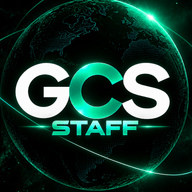
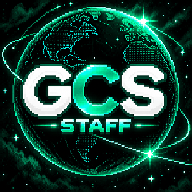
Ícone GCS Staff em pixel art (redimensionado sem suavizar) no app, iPhone e aba do navegador

diff --git a/app/layout.tsx b/app/layout.tsx
@@ -14,13 +14,14 @@ export const metadata: Metadata = {
   robots: { index: false, follow: false },
   // iPhone: instalado pela "Adicionar à Tela de Início" abre como app (sem barra do Safari)
   appleWebApp: { capable: true, title: "GCS Staff", statusBarStyle: "black-translucent" },
-  // ícone GCS Staff (imagem do Davi, 10/10/2026): aba do navegador (app/favicon.ico + 32px) e iPhone
+  // ícone GCS Staff em pixel art (imagem do Davi, 10/10/2026): aba do navegador (app/favicon.ico + 32px) e iPhone.
+  // "?v=3" força o navegador/iPhone a buscar o ícone novo (o nome do arquivo é o mesmo)
   icons: {
     icon: [
-      { url: "/favicon-32.png", sizes: "32x32", type: "image/png" },
-      { url: "/icone-192.png", sizes: "192x192", type: "image/png" },
+      { url: "/favicon-32.png?v=3", sizes: "32x32", type: "image/png" },
+      { url: "/icone-192.png?v=3", sizes: "192x192", type: "image/png" },
     ],
-    apple: "/apple-touch-icon.png",
+    apple: "/apple-touch-icon.png?v=3",
   },
 };
 

diff --git a/app/manifest.ts b/app/manifest.ts
@@ -15,11 +15,11 @@ export default function manifest(): MetadataRoute.Manifest {
     theme_color: "#000607",
     lang: "pt-BR",
     icons: [
-      { src: "/icone-192.png", sizes: "192x192", type: "image/png" },
-      { src: "/icone-512.png", sizes: "512x512", type: "image/png" },
+      { src: "/icone-192.png?v=3", sizes: "192x192", type: "image/png" },
+      { src: "/icone-512.png?v=3", sizes: "512x512", type: "image/png" },
       // Android corta em círculo: versão com o desenho menor e fundo preto
-      { src: "/icone-maskable-512.png", sizes: "512x512", type: "image/png", purpose: "maskable" },
-      { src: "/icone-1024.png", sizes: "1024x1024", type: "image/png" },
+      { src: "/icone-maskable-512.png?v=3", sizes: "512x512", type: "image/png", purpose: "maskable" },
+      { src: "/icone-1024.png?v=3", sizes: "1024x1024", type: "image/png" },
     ],
   };
 }

diff --git a/public/sw.js b/public/sw.js
@@ -15,7 +15,7 @@ self.addEventListener("push", (event) => {
   event.waitUntil(
     self.registration.showNotification(aviso.titulo || "Ospinabiz", {
       body: aviso.corpo || "",
-      icon: "/icone-192.png",
+      icon: "/icone-192.png?v=3",
       badge: "/selo-notificacao.png",
       tag: aviso.tag,
       // aviso da mesma coisa (ex.: a mesma pausa) substitui o anterior, mas toca de novo

diff --git a/docs/modulos/escala.md b/docs/modulos/escala.md
@@ -156,4 +156,8 @@ sem plantão. Com poucos leads (cerca de 55 desde 04/10), avisar quando a base f
   círculo do Android), `apple-touch-icon.png` (180), `favicon-32.png` e `app/favicon.ico` (16/32/48).
   Nome curto no celular: "GCS Staff". O selo da barra de notificação do Android
   (`selo-notificacao.png`) continua o anel branco: ele precisa ser uma silhueta de uma cor só.
+- **Ícone em pixel art (10/10/2026, mais tarde):** trocado pela versão "staff pixel art" do Davi
+  (1254×1254, quadrada, fundo preto). Todos os tamanhos redimensionados com vizinho mais próximo
+  (`kernel: "nearest"`, sem suavizar) e paleta sem pontilhado. Endereços com `?v=3` para o
+  navegador/iPhone não usarem o ícone antigo em cache.
 
